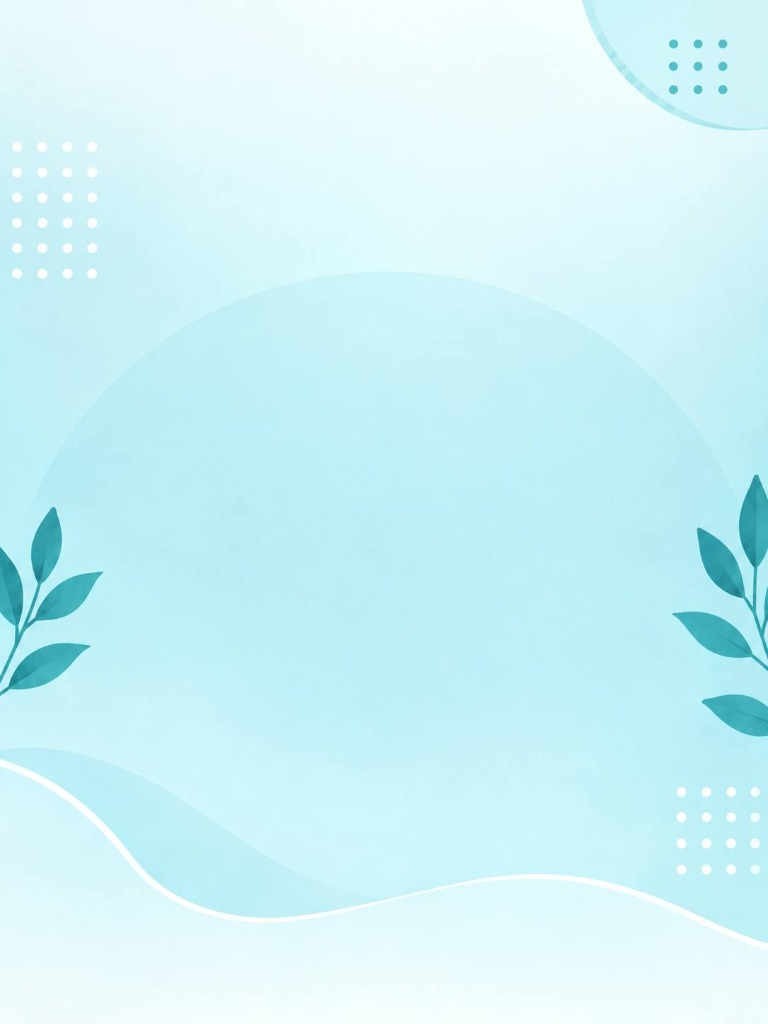
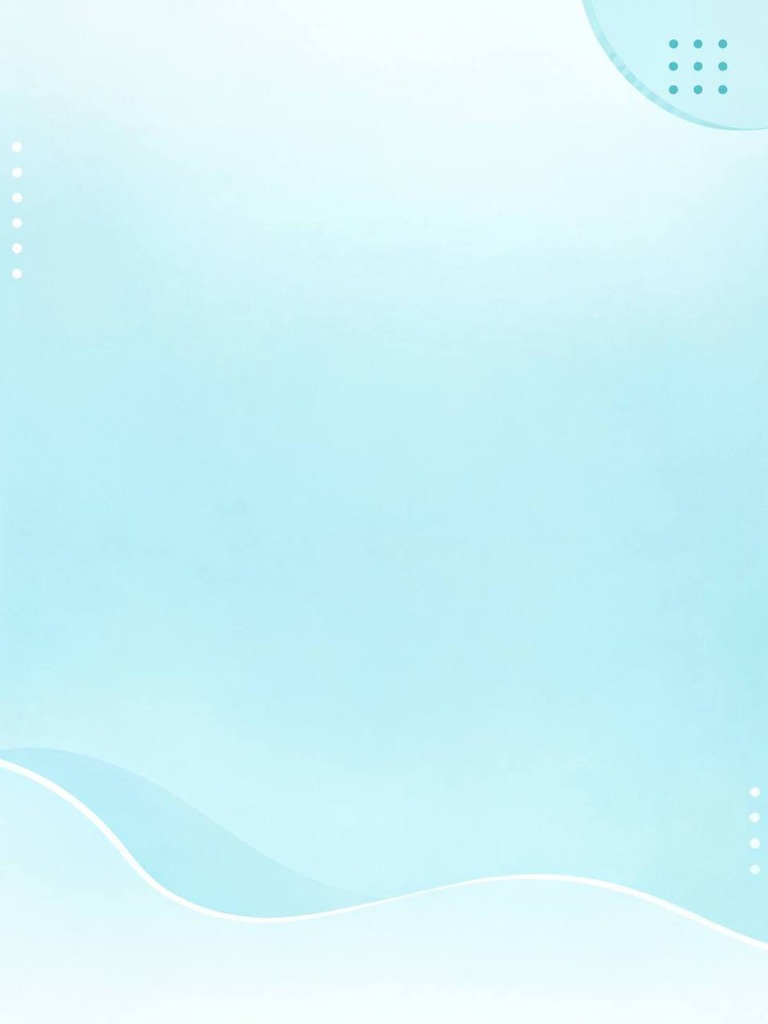
feat: apply new visual theme with custom backgrounds for page, headers, and blocks matching mockup

diff --git a/style.css b/style.css
@@ -115,11 +115,9 @@ p, .tile-body p, .step-desc, .kb-intro, .kb-card-summary, .modal-body, .bubble, 
 
 /* ================= ВЕРХНЯЯ ШАПКА ================= */
 .app-header {
-  padding: 12px 18px;
-  background: rgba(220, 245, 243, 0.88);
-  backdrop-filter: blur(16px);
-  -webkit-backdrop-filter: blur(16px);
-  border-bottom: 1.5px solid rgba(11, 77, 80, 0.12);
+  padding: 14px 18px 10px 18px;
+  background: transparent;
+  border-bottom: none;
   z-index: 20;
 }
 
@@ -280,7 +278,7 @@ p, .tile-body p, .step-desc, .kb-intro, .kb-card-summary, .modal-body, .bubble, 
   transform: scale(0.98);
 }
 
-/* ================= ФОН ДЛЯ ТЕКСТОВЫХ БЛОКОВ И КАРТОЧЕК (IMAGE 4) ================= */
+/* ================= ФОН ДЛЯ ТЕКСТОВЫХ БЛОКОВ И КАРТОЧЕК (IMAGE 2) ================= */
 .capsule-box,
 .section-card,
 .quick-tile,
@@ -293,11 +291,10 @@ p, .tile-body p, .step-desc, .kb-intro, .kb-card-summary, .modal-body, .bubble, 
 .call-sos-card,
 .express-tool-card,
 .service-row-card,
-.bot-msg .bubble,
 .textarea-wrap textarea,
 .upload-box {
   background-color: #f0fbfc;
-  background-image: url('./images/card-bg.jpg');
+  background-image: url('./images/bg-block.jpg');
   background-size: cover;
   background-position: center;
   background-repeat: no-repeat;
@@ -1106,10 +1103,10 @@ p, .tile-body p, .step-desc, .kb-intro, .kb-card-summary, .modal-body, .bubble, 
 }
 
 .msg .bubble {
-  padding: 12px 16px;
-  border-radius: 18px;
+  padding: 14px 18px;
+  border-radius: 20px;
   font-size: 13.5px;
-  line-height: 1.45;
+  line-height: 1.5;
   word-break: break-word;
 }
 
@@ -1121,7 +1118,12 @@ p, .tile-body p, .step-desc, .kb-intro, .kb-card-summary, .modal-body, .bubble, 
 }
 
 .bot-msg .bubble {
-  border-bottom-left-radius: 4px;
+  background: #ffffff;
+  color: var(--text-body);
+  border: 1px solid rgba(11, 77, 80, 0.08);
+  border-radius: 20px;
+  border-bottom-left-radius: 6px;
+  box-shadow: 0 4px 16px rgba(11, 77, 80, 0.06);
 }
 
 .chat-suggestions {
@@ -1149,29 +1151,34 @@ p, .tile-body p, .step-desc, .kb-intro, .kb-card-summary, .modal-body, .bubble, 
 
 .chat-input-bar {
   display: flex;
+  align-items: center;
   gap: 8px;
-  padding: 6px 0;
+  padding: 8px 0 2px 0;
 }
 
 .chat-input-bar input {
   flex: 1;
-  background: rgba(255, 255, 255, 0.9);
-  border: 1.5px solid rgba(11, 77, 80, 0.18);
+  background: #ffffff;
+  border: 1.5px solid rgba(11, 77, 80, 0.14);
   border-radius: var(--radius-pill);
   padding: 12px 18px;
   color: var(--text-primary);
   font-family: inherit;
   font-size: 13.5px;
   outline: none;
+  box-shadow: 0 2px 8px rgba(11, 77, 80, 0.04);
+  transition: border-color 0.2s ease, box-shadow 0.2s ease;
 }
 
 .chat-input-bar input:focus {
   border-color: var(--accent-primary);
+  box-shadow: 0 2px 12px rgba(11, 77, 80, 0.12);
 }
 
 .btn-send {
   width: 44px;
   height: 44px;
+  min-width: 44px;
   border-radius: 50%;
   background: var(--accent-primary);
   color: #fff;
@@ -1181,6 +1188,12 @@ p, .tile-body p, .step-desc, .kb-intro, .kb-card-summary, .modal-body, .bubble, 
   justify-content: center;
   cursor: pointer;
   box-shadow: 0 4px 12px rgba(11, 77, 80, 0.25);
+  transition: transform 0.15s ease, background-color 0.15s ease;
+}
+
+.btn-send:active {
+  transform: scale(0.95);
+  background: var(--accent-primary-hover);
 }
 
 /* ================= 6. KB SCREEN ================= */
@@ -1491,7 +1504,7 @@ p, .tile-body p, .step-desc, .kb-intro, .kb-card-summary, .modal-body, .bubble, 
 }
 
 .sos-card-subtle {
-  background: rgba(255, 255, 255, 0.7);
+  background: #ffffff url('./images/bg-block.jpg') no-repeat center center / cover;
   border: 1px solid rgba(11, 77, 80, 0.12);
   border-radius: var(--radius-md);
   padding: 12px 14px;
@@ -1598,7 +1611,7 @@ p, .tile-body p, .step-desc, .kb-intro, .kb-card-summary, .modal-body, .bubble, 
 }
 
 .assistant-header-card {
-  background: #ffffff url('./images/card-bg.jpg') no-repeat center center / cover;
+  background: #ffffff url('./images/bg-header.jpg') no-repeat center top / cover;
   border: 1.5px solid var(--border-card);
   border-bottom: none;
   border-radius: var(--radius-lg) var(--radius-lg) 0 0;
@@ -1623,16 +1636,18 @@ p, .tile-body p, .step-desc, .kb-intro, .kb-card-summary, .modal-body, .bubble, 
   width: 38px;
   height: 38px;
   border-radius: 50%;
-  background: rgba(11, 77, 80, 0.08);
+  background: #0e4a4c;
   display: flex;
   align-items: center;
   justify-content: center;
+  box-shadow: 0 2px 8px rgba(14, 74, 76, 0.25);
 }
 
 .agent-icon {
-  width: 22px;
-  height: 22px;
+  width: 20px;
+  height: 20px;
   object-fit: contain;
+  filter: brightness(0) invert(1);
 }
 
 .agent-meta {
@@ -1669,7 +1684,10 @@ p, .tile-body p, .step-desc, .kb-intro, .kb-card-summary, .modal-body, .bubble, 
   display: grid;
   grid-template-columns: 1fr 1fr 1fr;
   gap: 6px;
-  background: rgba(11, 77, 80, 0.06);
+  background: rgba(255, 255, 255, 0.75);
+  border: 1px solid rgba(11, 77, 80, 0.08);
+  backdrop-filter: blur(8px);
+  -webkit-backdrop-filter: blur(8px);
   padding: 4px;
   border-radius: var(--radius-pill);
 }
@@ -1708,7 +1726,7 @@ p, .tile-body p, .step-desc, .kb-intro, .kb-card-summary, .modal-body, .bubble, 
 .solution-tab-btn.active {
   background: #ffffff;
   color: var(--accent-primary);
-  box-shadow: 0 2px 8px rgba(11, 77, 80, 0.12);
+  box-shadow: 0 3px 10px rgba(11, 77, 80, 0.12);
 }
 
 .solution-tab-btn.active .sol-icon-img {
@@ -1717,7 +1735,7 @@ p, .tile-body p, .step-desc, .kb-intro, .kb-card-summary, .modal-body, .bubble, 
 }
 
 .assistant-body-card {
-  background: #ffffff url('./images/card-bg.jpg') no-repeat center center / cover;
+  background: #ffffff url('./images/bg-block.jpg') no-repeat center center / cover;
   border: 1.5px solid var(--border-card);
   border-radius: 0 0 var(--radius-lg) var(--radius-lg);
   padding: 14px;
@@ -1766,20 +1784,31 @@ p, .tile-body p, .step-desc, .kb-intro, .kb-card-summary, .modal-body, .bubble, 
 
 /* Кнопка прикрепления фото в панели ввода */
 .btn-attach {
-  background: none;
-  border: none;
-  padding: 6px;
+  width: 44px;
+  height: 44px;
+  min-width: 44px;
+  border-radius: 50%;
+  background: #ffffff;
+  border: 1.5px solid rgba(11, 77, 80, 0.14);
+  box-shadow: 0 2px 8px rgba(11, 77, 80, 0.05);
   cursor: pointer;
   display: flex;
   align-items: center;
   justify-content: center;
+  padding: 0;
+  transition: transform 0.15s ease, background-color 0.15s ease;
+}
+
+.btn-attach:active {
+  transform: scale(0.95);
+  background: #f0fbfc;
 }
 
 .btn-attach-img {
-  width: 22px;
-  height: 22px;
+  width: 20px;
+  height: 20px;
   object-fit: contain;
-  opacity: 0.8;
+  opacity: 0.85;
 }
 
 /* Стили психологического теста */

diff --git a/index.html b/index.html
@@ -8,7 +8,7 @@
   <script src="./vk-bridge.js"></script>
   <!-- Telegram WebApp SDK -->
   <script src="https://telegram.org/js/telegram-web-app.js"></script>
-  <link rel="stylesheet" href="./style.css?v=1789890000">
+  <link rel="stylesheet" href="./style.css?v=1789900000">
   <link rel="preconnect" href="https://fonts.googleapis.com">
   <link rel="preconnect" href="https://fonts.gstatic.com" crossorigin>
   <link href="https://fonts.googleapis.com/css2?family=Montserrat:wght@500;600;700;800;900&display=swap" rel="stylesheet">
@@ -289,6 +289,6 @@
     </main>
   </div>
 
-  <script src="./app.js?v=1789890000"></script>
+  <script src="./app.js?v=1789900000"></script>
 </body>
 </html>
